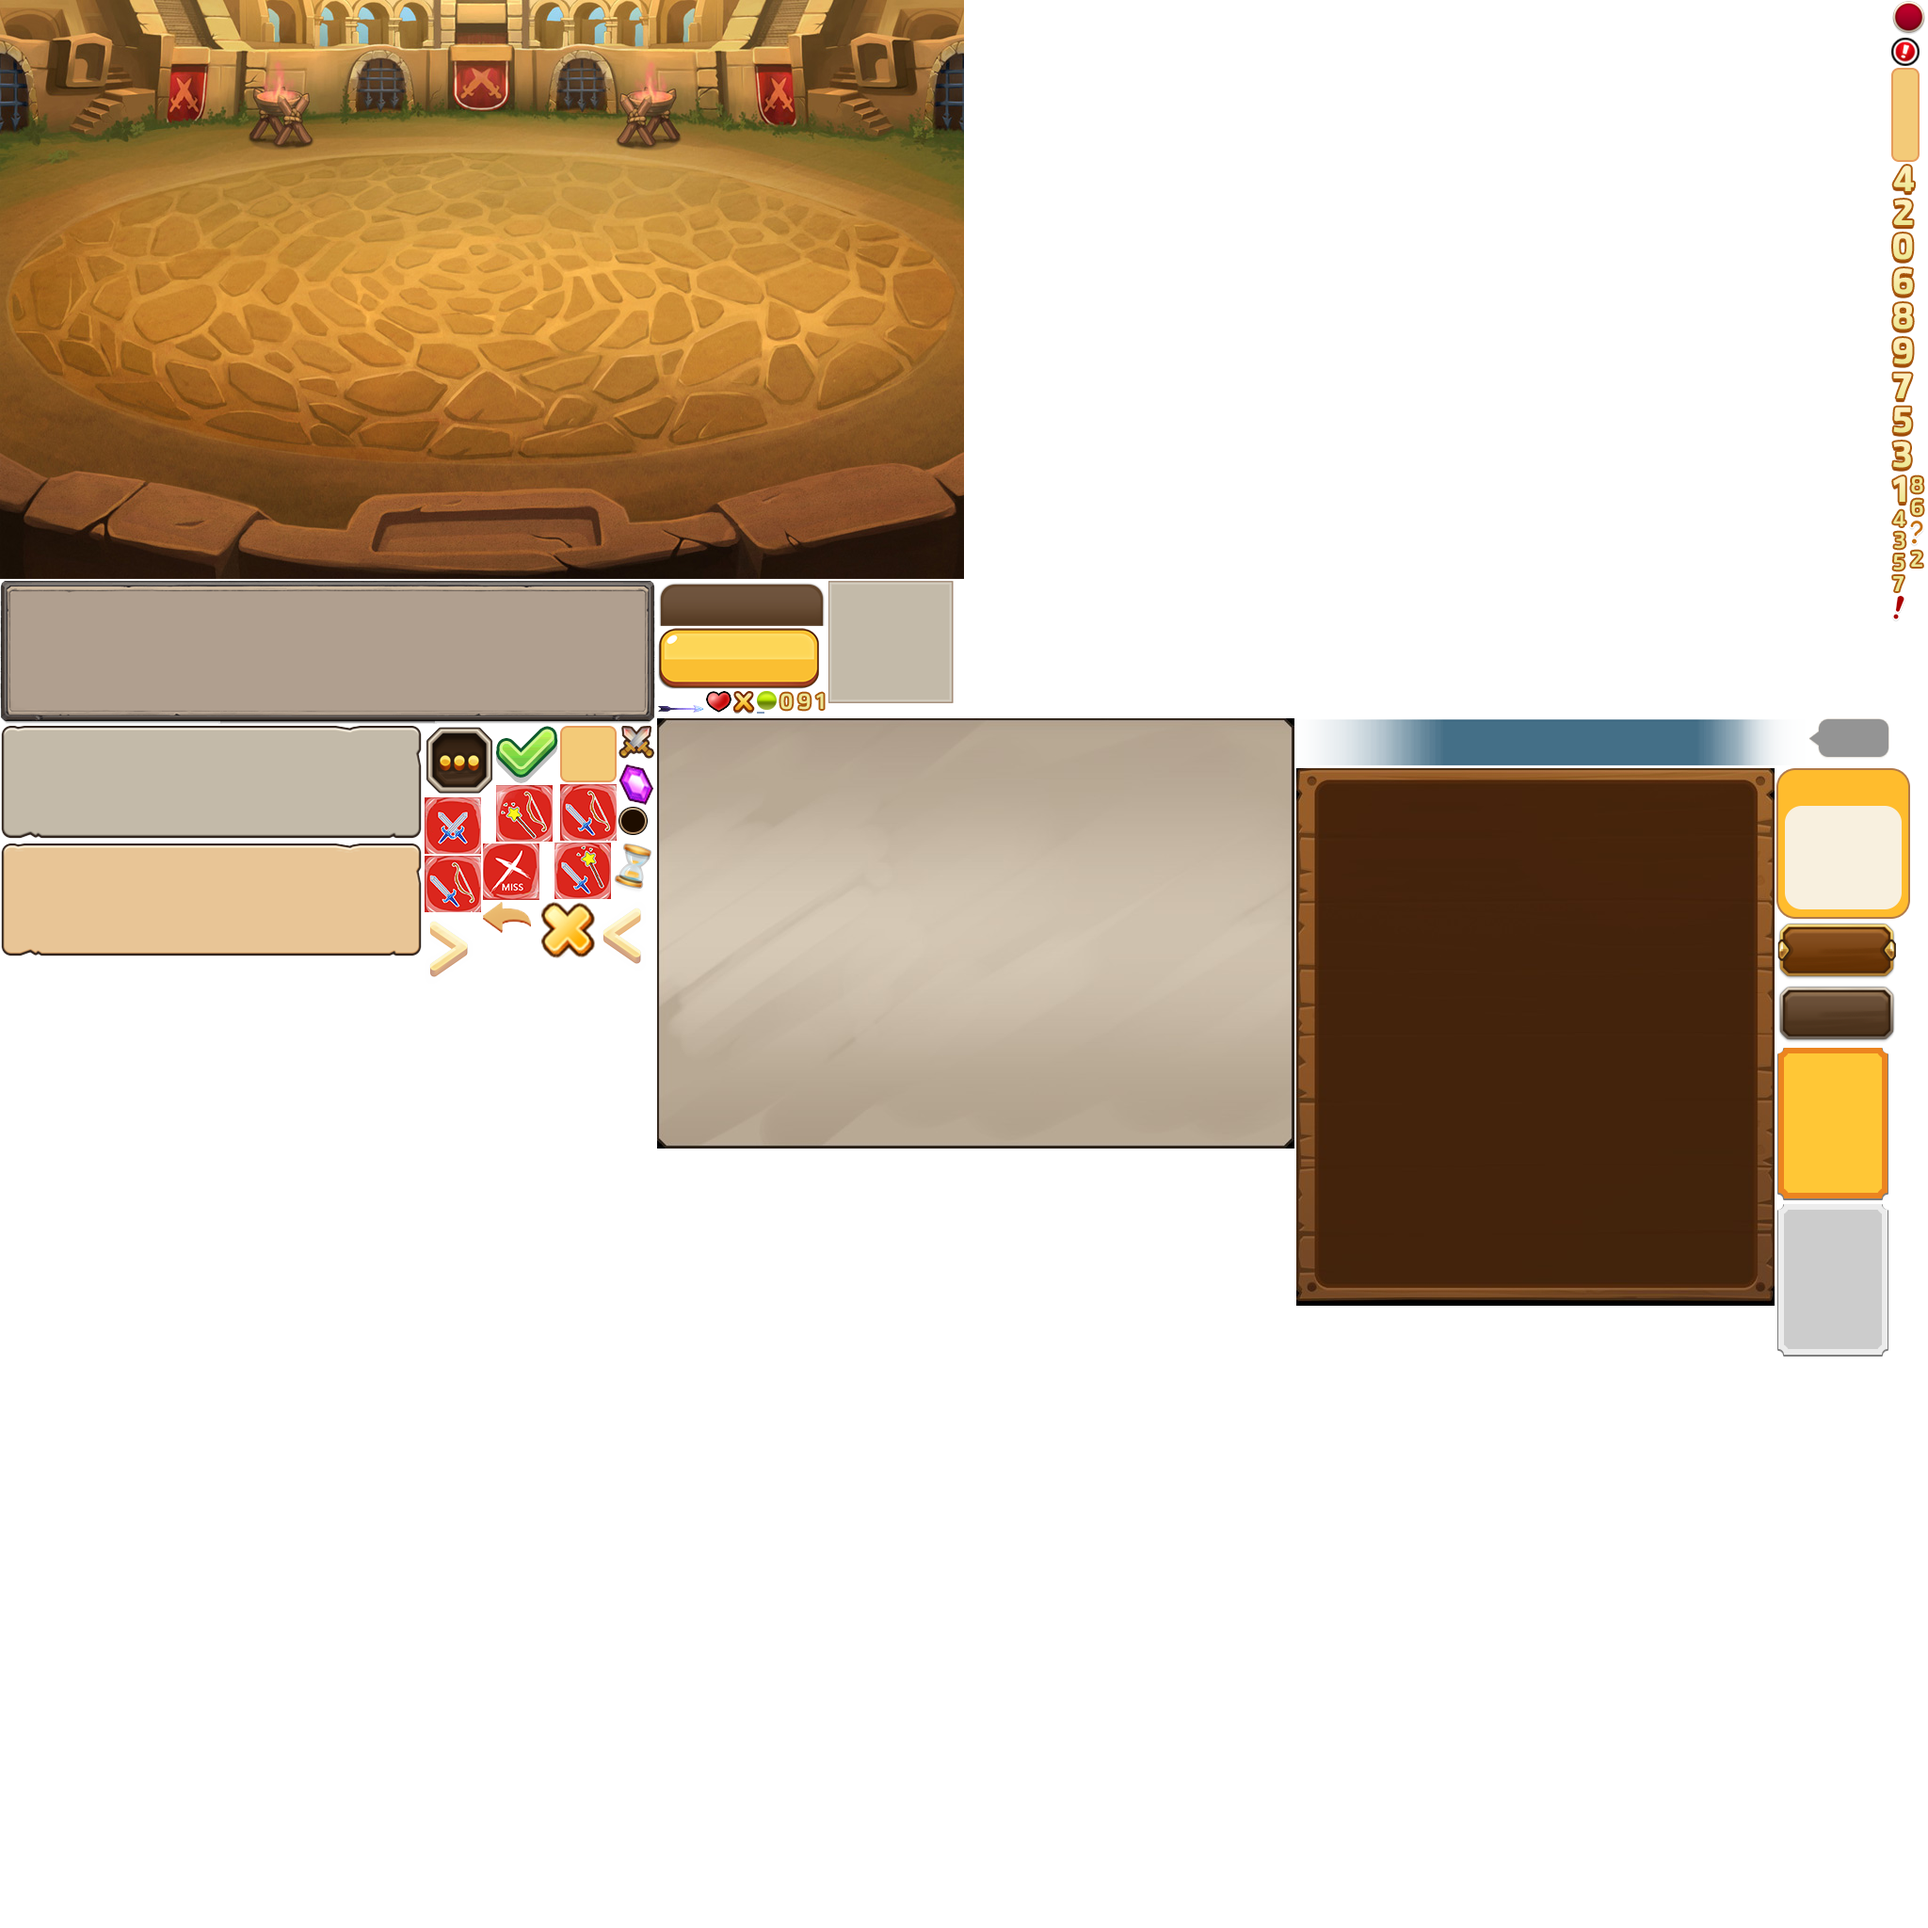
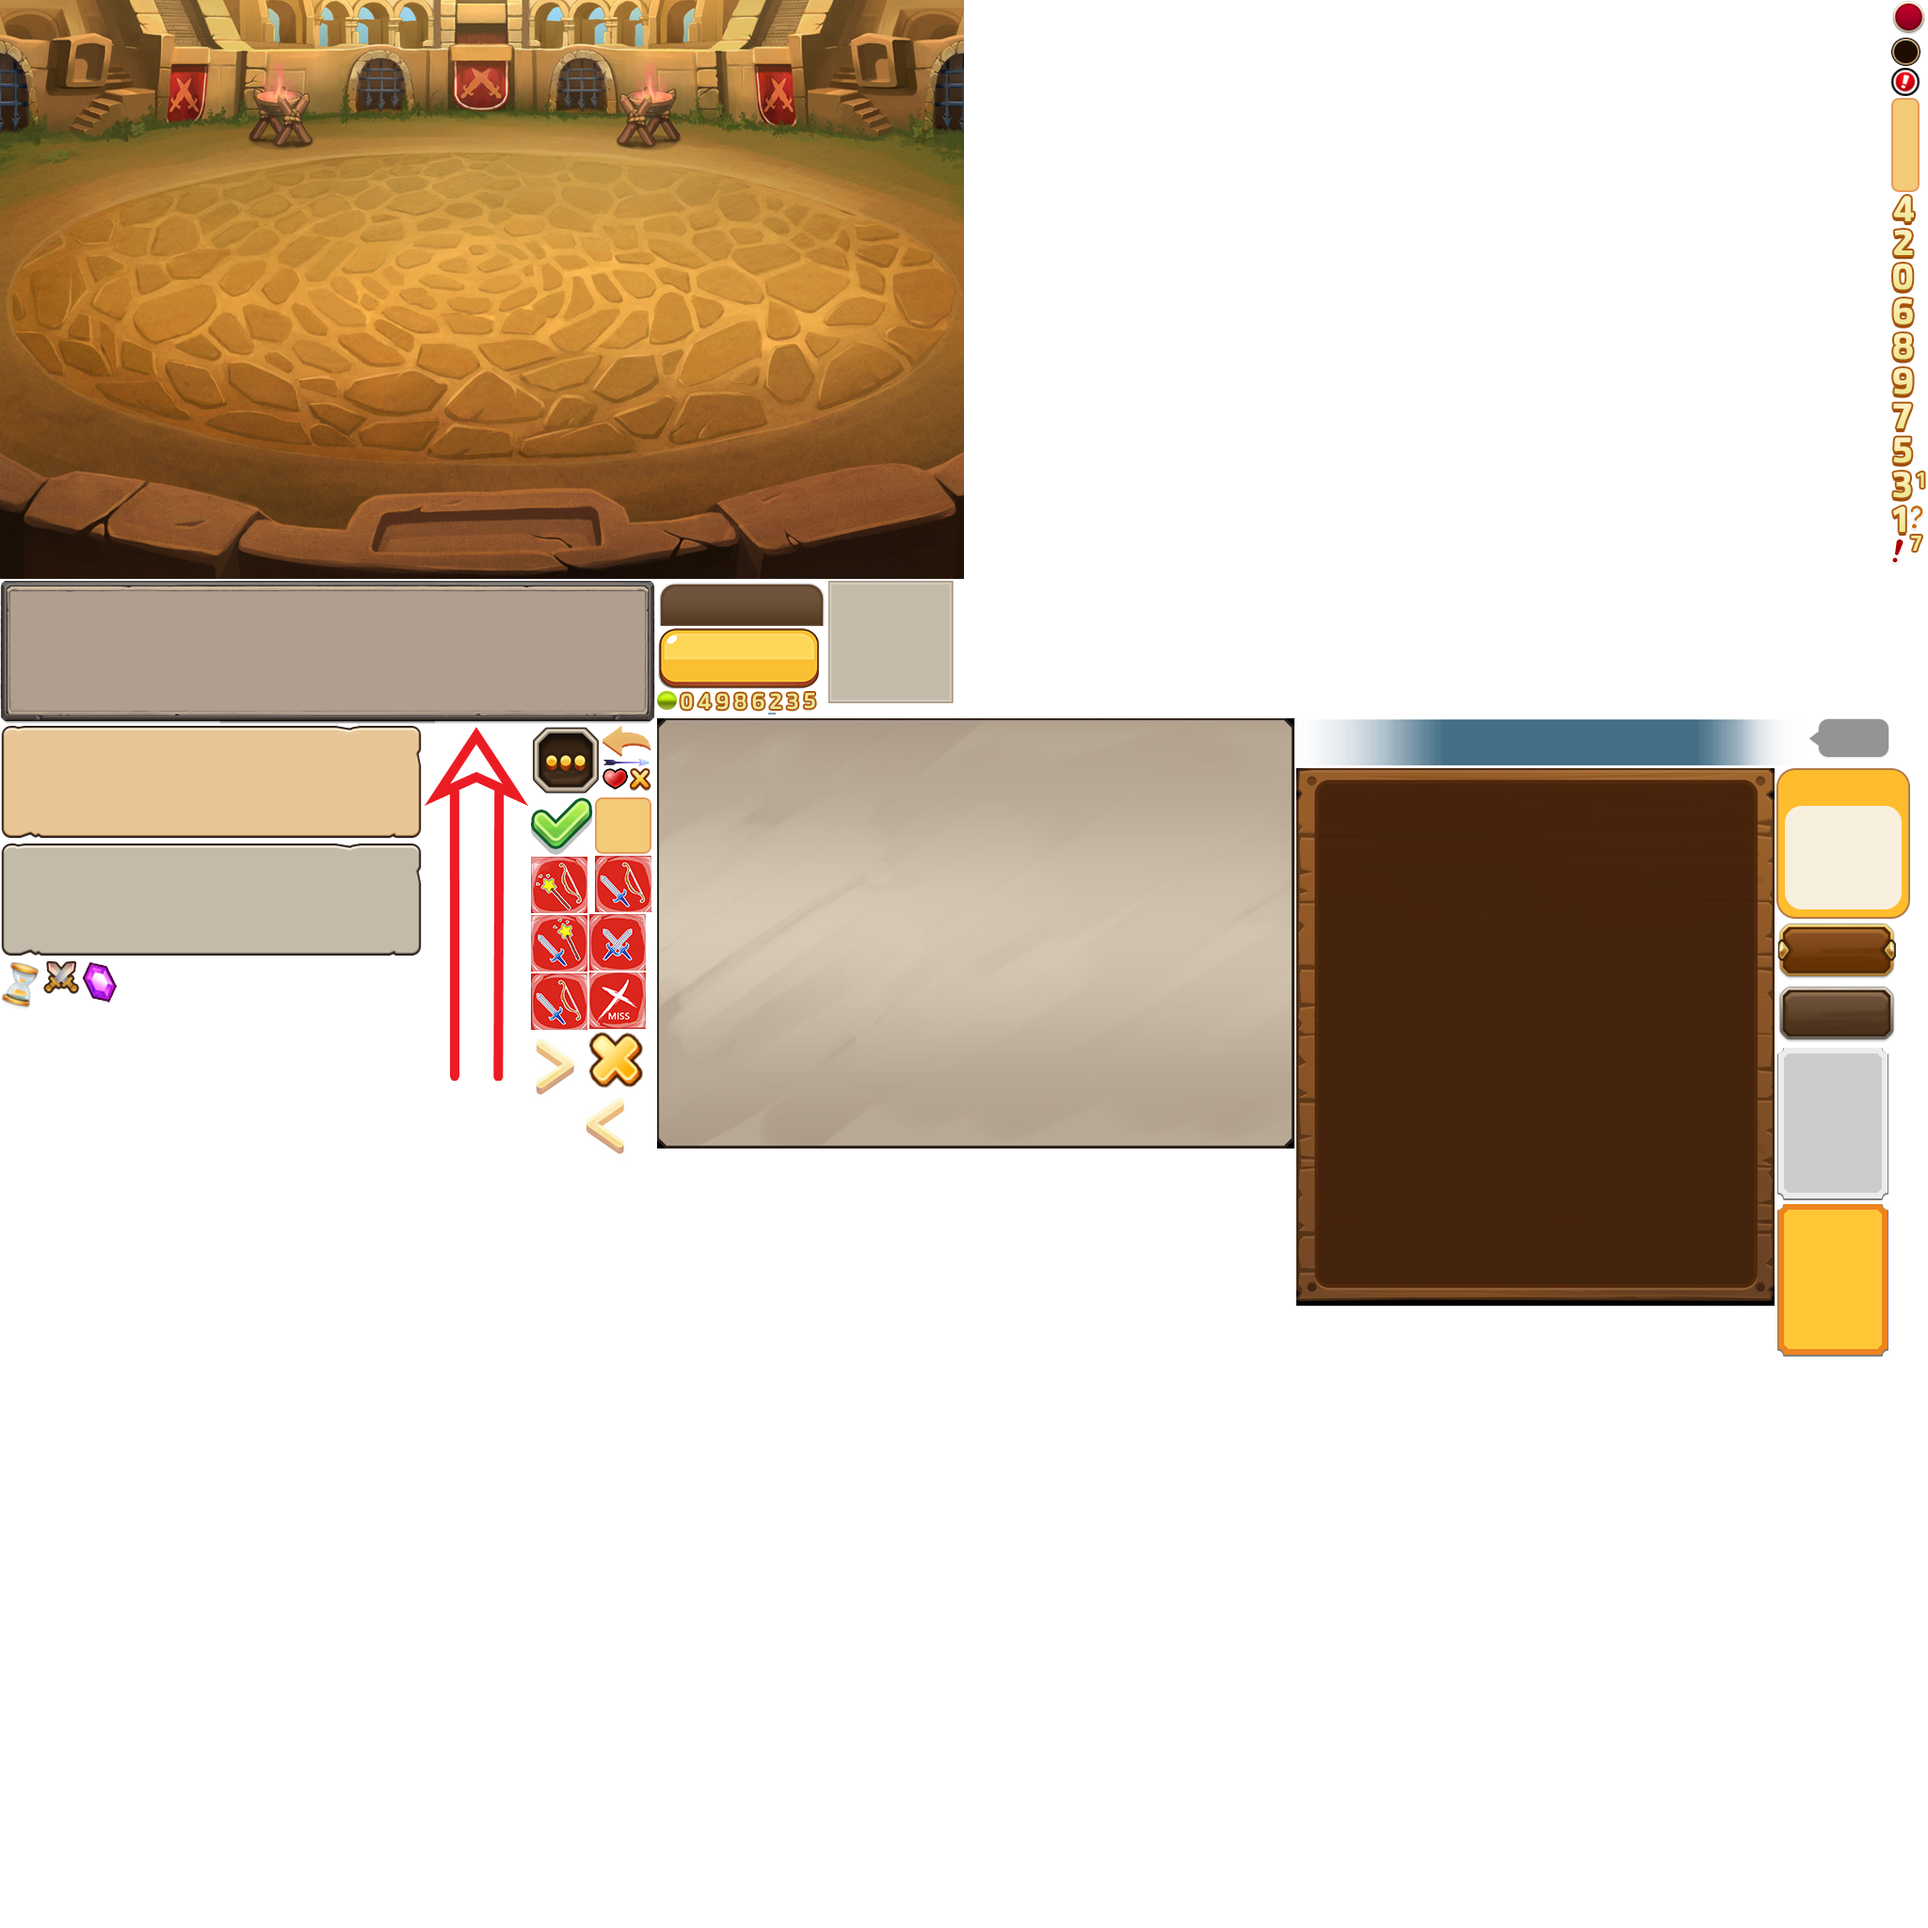
增加使用提示箭头

diff --git a/client/client/src/view/game/HandCardView.ts b/client/client/src/view/game/HandCardView.ts
@@ -11,6 +11,8 @@ class HandCardView extends BaseView<BaseUI.UIHandCardsCom> {
     private _cardPoolPosition: egret.Point;
     private _deadPoolPosition: egret.Point;
 
+    private _tipsArrow: fairygui.GImage;
+
     protected init() {
         this.view = GameSceneView.ins().getView().selfHand;;
         this._cards = [];
@@ -20,6 +22,9 @@ class HandCardView extends BaseView<BaseUI.UIHandCardsCom> {
 
         const deadPoolRoot = SelfInfoBox.ins().getView().deadPoolBg.localToRoot();
         this._deadPoolPosition = this.view.rootToLocal(deadPoolRoot.x, deadPoolRoot.y);
+
+        this._tipsArrow = fairygui.UIPackage.createObject('BaseUI', 'use_arrow').asImage;
+        this._tipsArrow.setPivot(0.5, 1, true);
     }
 
     public open(): void {
@@ -90,7 +95,7 @@ class HandCardView extends BaseView<BaseUI.UIHandCardsCom> {
             const root = cardItem.localToRoot();
             cardItem.x = root.x;
             cardItem.y = root.y;
-            cardItem.setPivot(0, 0);
+            // cardItem.setPivot(0, 0);
             this.removeCard(gameCard);
             const deadPoolRoot = SelfInfoBox.ins().getView().deadPoolBg.localToRoot();
             GameSceneView.ins().getView().addChild(cardItem);
@@ -120,20 +125,24 @@ class HandCardView extends BaseView<BaseUI.UIHandCardsCom> {
             const gameCard = cards[index];
 
             const cardItem = gameCard.cardItem;
-            cardItem.setPivot(0, 0, true);
+            // cardItem.setPivot(0, 0, true);
             this.view.addChild(cardItem);
 
             //初始化悬浮事件
             const oldIndex = this.view.getChildIndex(cardItem);
             this.addEvent(cardItem, mouse.MouseEvent.MOUSE_OVER, () => {
-                this.view.setChildIndex(cardItem, 99);
-                cardItem.scaleX = 1;
-                cardItem.scaleY = 1;
+                if (this.isChildInView(cardItem)) {
+                    this.view.setChildIndex(cardItem, 99);
+                    cardItem.scaleX = 1;
+                    cardItem.scaleY = 1;
+                }
             }, this);
             this.addEvent(cardItem, mouse.MouseEvent.MOUSE_OUT, () => {
-                this.view.setChildIndex(cardItem, oldIndex);
-                cardItem.scaleX = 0.5;
-                cardItem.scaleY = 0.5;
+                if (this.isChildInView(cardItem)) {
+                    this.view.setChildIndex(cardItem, oldIndex);
+                    cardItem.scaleX = 0.5;
+                    cardItem.scaleY = 0.5;
+                }
             }, this);
 
             //初始化拖动事件
@@ -146,6 +155,33 @@ class HandCardView extends BaseView<BaseUI.UIHandCardsCom> {
                 cardItem.x = event.stageX - cardItem.width / 2;
                 cardItem.y = event.stageY - cardItem.height / 2;
                 UseCardTipsView.ins().open(gameCard);
+            }, this);
+
+            //初始化拖动事件
+            this.addEvent(cardItem, fairygui.DragEvent.DRAG_MOVING, (event: fairygui.DragEvent) => {
+                if ((gameCard.cardInfo.cardType === CardsPto.CardType.Building || gameCard.cardInfo.cardType === CardsPto.CardType.Unit) && MapView.ins().isInMap(event.stageX, event.stageY)) {
+                    //如果在地图中，卡牌还原位置然后展示出箭头指引
+                    const localPoint = this.view.localToRoot(gameCard.cacheX, gameCard.cacheY);
+                    cardItem.x = localPoint.x;
+                    cardItem.y = localPoint.y;
+                    cardItem.scaleX = 0.5;
+                    cardItem.scaleY = 0.5;
+                    //展示箭头
+                    UseCardTipsView.ins().getView().addChild(this._tipsArrow);
+                    this._tipsArrow.x = localPoint.x + cardItem.width / 4;
+                    this._tipsArrow.y = localPoint.y + cardItem.height / 4 * 3;
+                    const distance = Utils.getDistance(this._tipsArrow.x, this._tipsArrow.y, event.stageX, event.stageY);
+                    this._tipsArrow.height = distance;
+                    const skew = Utils.getPointAngle(this._tipsArrow.x, this._tipsArrow.y, event.stageX, event.stageY);
+                    this._tipsArrow.skewX = skew;
+                    this._tipsArrow.skewY = skew;
+                } else {
+                    cardItem.scaleX = 1;
+                    cardItem.scaleY = 1;
+                    cardItem.x = event.stageX - cardItem.width / 2;
+                    cardItem.y = event.stageY - cardItem.height / 2;
+                    UseCardTipsView.ins().getView().removeChild(this._tipsArrow);
+                }
             }, this);
 
             this.addEvent(cardItem, fairygui.DragEvent.DRAG_END, (event: fairygui.DragEvent) => {
@@ -374,7 +410,7 @@ class HandCardView extends BaseView<BaseUI.UIHandCardsCom> {
             gameCard.cardItem.x = root.x;
             gameCard.cardItem.y = root.y;
             gameCard.cardItem.canUse.visible = false;
-            gameCard.cardItem.setPivot(0, 0);
+            // gameCard.cardItem.setPivot(0, 0);
             this.removeCard(gameCard);
             this.updateCardsPostion(500);
             return GameSceneView.ins().useCardShow(gameCard);

diff --git a/client/client/src/view/game/map/MapView.ts b/client/client/src/view/game/map/MapView.ts
@@ -190,7 +190,7 @@ class MapView extends BaseView<BaseUI.UIMapView> {
 
         this.updateMapItem(sourceCardInfo);
         //如果单位死亡了可能就没有了，就不需要更新了
-        if(targetCardInfo){
+        if (targetCardInfo) {
             this.updateMapItem(targetCardInfo);
         }
     }
@@ -251,7 +251,7 @@ class MapView extends BaseView<BaseUI.UIMapView> {
 
     /**更新地图信息 */
     public updateMap() {
-        const entityCards= MapModel.ins().entityCards;
+        const entityCards = MapModel.ins().entityCards;
         for (let index = 0; index < entityCards.length; index++) {
             const cardInfo = entityCards[index];
             const entity = this.entityMap.get(cardInfo.id);
@@ -348,10 +348,7 @@ class MapView extends BaseView<BaseUI.UIMapView> {
                 effect.play(-1);
             } else {
                 //计算角度
-                let skew = Utils.getPointAngle(sourceEntity.x, sourceEntity.y, targetEntity.x, targetEntity.y) - 90;
-                if (targetEntity.x >= sourceEntity.x) {
-                    skew += 180;
-                }
+                let skew = Utils.getPointAngle(sourceEntity.x, sourceEntity.y, targetEntity.x, targetEntity.y);
                 effect.skewX = skew - effectData.defaultRotation;
                 effect.skewY = skew - effectData.defaultRotation;
             }
@@ -370,18 +367,20 @@ class MapView extends BaseView<BaseUI.UIMapView> {
     }
 
     /**传入一个位置，检查是否在地图范围中 */
-    public isInMap(x: number, y: number, mapPoint: egret.Point) {
+    public isInMap(x: number, y: number, mapPoint?: egret.Point) {
         const map = this.view;
         const position = map.localToRoot();
         if (x >= position.x && x <= position.x + map.width &&
             y >= position.y && y <= position.y + map.height) {
             const localPoint = this.view.rootToLocal(x, y);
-            if (this._isFirst) {
-                mapPoint.x = Math.floor(localPoint.x / this.blockWidth);
-                mapPoint.y = Math.floor(localPoint.y / this.blockHeight);
-            } else {
-                mapPoint.x = Math.floor((this.view.width - localPoint.x) / this.blockWidth);
-                mapPoint.y = Math.floor((this.view.height - localPoint.y) / this.blockHeight);
+            if (mapPoint) {
+                if (this._isFirst) {
+                    mapPoint.x = Math.floor(localPoint.x / this.blockWidth);
+                    mapPoint.y = Math.floor(localPoint.y / this.blockHeight);
+                } else {
+                    mapPoint.x = Math.floor((this.view.width - localPoint.x) / this.blockWidth);
+                    mapPoint.y = Math.floor((this.view.height - localPoint.y) / this.blockHeight);
+                }
             }
             return true;
         }

diff --git a/client/client/src/core/Utils.ts b/client/client/src/core/Utils.ts
@@ -105,7 +105,13 @@ class Utils {
     public static getPointAngle(sx: number, sy: number, tx: number, ty: number) {
         const difX = tx - sx;
         const difY = ty - sy;
-        return 360 * Math.atan(difY / difX) / (2 * Math.PI);
+
+        let res = 360 * Math.atan(difY / difX) / (2 * Math.PI) - 90;
+
+        if (tx >= sx) {
+            res += 180;
+        }
+        return res;
     }
 
     /**获取两点之间的像素距离 */
